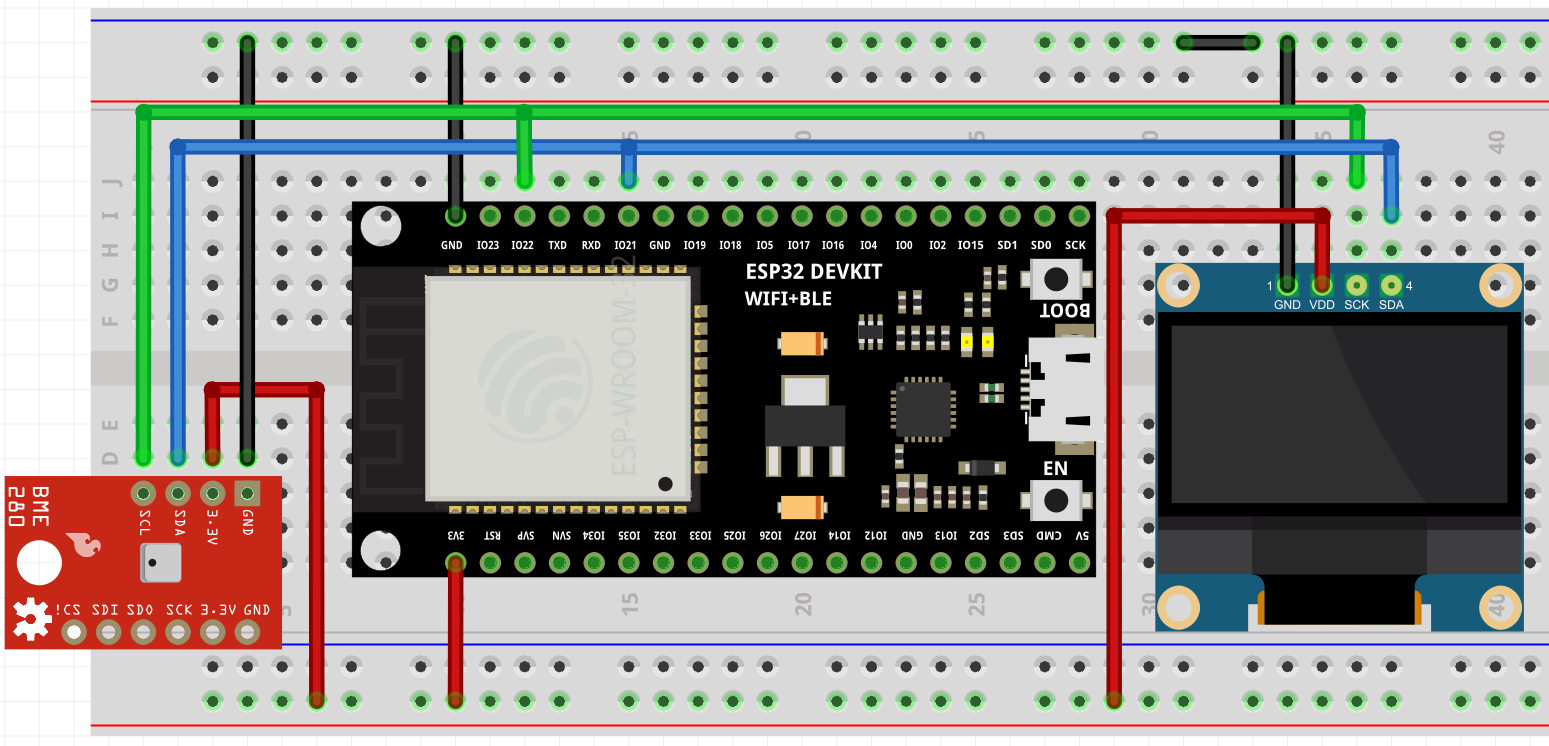
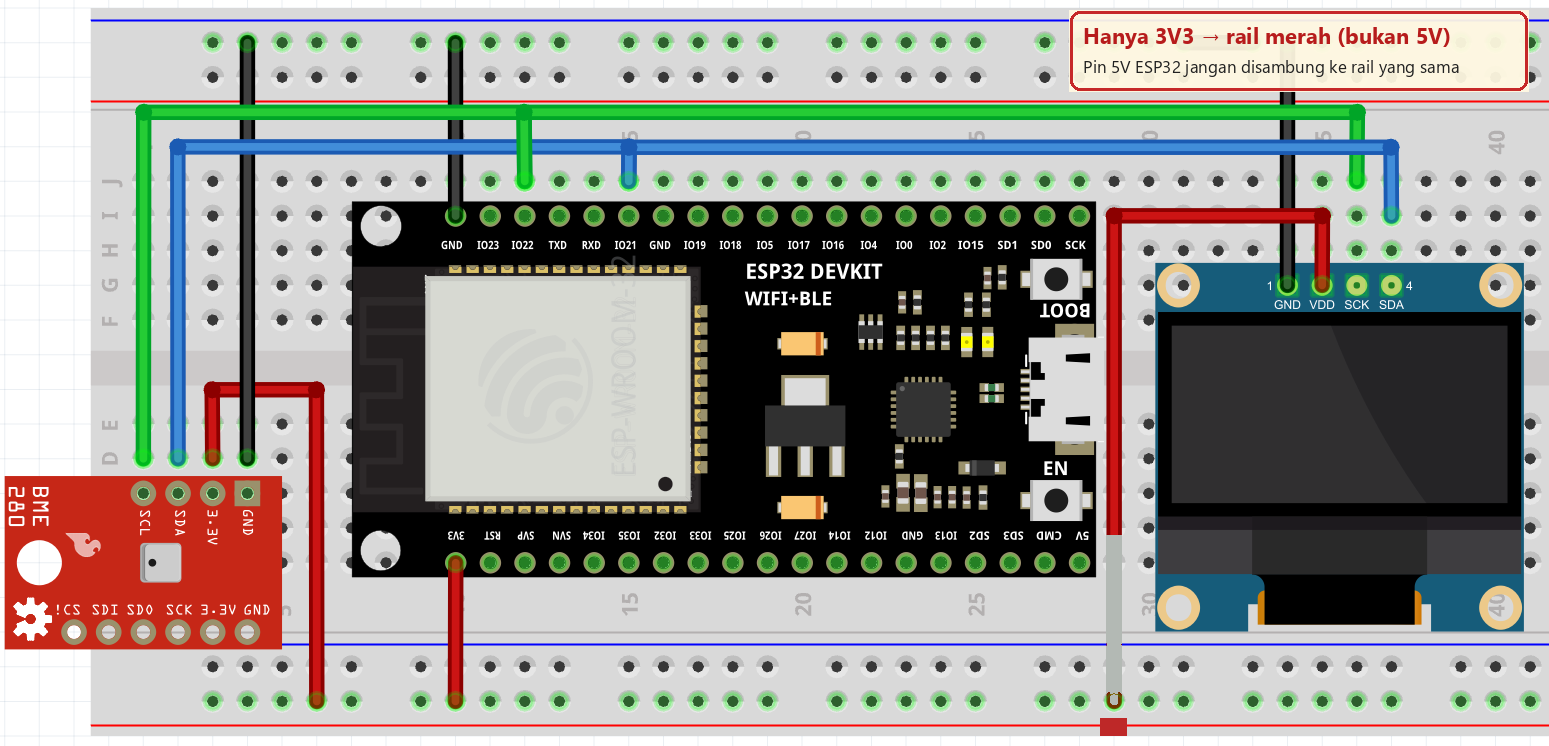
fix(fsiot): #98 QA awam — remove 5V rail short, clarify OLED labels
Correct the breadboard power rail so only 3V3 feeds modules, add SCK/VDD tips plus silkscreen guidance, and refresh FS-28 diagrams for beginner safety.

Changed region(s): [[0.6817, 0.0, 0.9916, 0.1233], [0.7127, 0.7091, 0.7437, 0.9866]]

diff --git a/database/seeders/Article98Seeder.php b/database/seeders/Article98Seeder.php
@@ -164,8 +164,9 @@ HTML;
 <figure style="margin:1.5rem 0;max-width:100%;background:#F5F5F0;border:2.5px solid #1a1a1a;border-radius:8px;padding:0.75rem 0.75rem 0.35rem">
   <img src="/images/fsiot/fs28-i2c-breadboard.png" width="1549" height="746" alt="Gambar utama — rangkaian I2C BME280 + OLED di breadboard GPIO 21/22" loading="eager" style="width:100%;height:auto;max-height:640px;object-fit:contain;border-radius:6px;background:#fff">
   <figcaption style="font-size:0.85rem;margin-top:0.5rem;color:#1a1a1a;">
-    <strong>Gambar utama — rangkaian I2C di breadboard.</strong> Legenda warna: <strong>biru</strong> = <strong>IO21 / GPIO 21</strong> → <strong>SDA</strong> (BME280 + OLED) · <strong>hijau</strong> = <strong>IO22 / GPIO 22</strong> → <strong>SCL</strong> (di OLED sering tertulis <strong>SCK</strong> — itu jam I2C yang sama) · <strong>merah</strong> = <strong>3V3</strong> → VCC · <strong>hitam</strong> = <strong>GND</strong> bersama. Kedua modul berbagi bus yang sama.
-    <br>Tip BME280: pakai baris pin <strong>SCL / SDA / 3.3V / GND</strong>; baris bawah (<code>!CS</code>, <code>SDI</code>, …) untuk SPI — biarkan kosong. Sumber gambar: diagram rangkaian Koding Indonesia (FS-28).
+    <strong>Gambar utama — rangkaian I2C di breadboard.</strong> Legenda warna: <strong>biru</strong> = <strong>IO21 / GPIO 21</strong> → <strong>SDA</strong> (BME280 + OLED) · <strong>hijau</strong> = <strong>IO22 / GPIO 22</strong> → <strong>SCL</strong> (di OLED sering tertulis <strong>SCK</strong> — itu jam I2C yang sama) · <strong>merah</strong> = <strong>3V3 saja</strong> → VCC/VDD · <strong>hitam</strong> = <strong>GND</strong> bersama. Kedua modul berbagi bus yang sama.
+    <br><strong>Penting:</strong> rail merah hanya dari pin <strong>3V3</strong> — <strong>jangan</strong> sambungkan pin <strong>5V</strong> ESP32 ke rail yang sama (bisa merusak modul 3,3 V). Di OLED, <strong>VDD = VCC</strong> (daya). Tip BME280: pakai baris <strong>SCL / SDA / 3.3V / GND</strong>; baris bawah (<code>!CS</code>, <code>SDI</code>, …) untuk SPI — biarkan kosong. Susunan pin di foto Commons bisa beda dari modul murah — ikuti <strong>label tulisan</strong>, bukan posisi foto.
+    <br>Sumber gambar: diagram rangkaian Koding Indonesia (FS-28), sudah dikoreksi agar hanya 3V3 yang mengisi rail daya.
   </figcaption>
 </figure>
 HTML;
@@ -177,8 +178,9 @@ HTML;
 <figure style="margin:1.5rem 0;max-width:100%;background:#F5F5F0;border:2.5px solid #1a1a1a;border-radius:8px;padding:0.75rem 0.75rem 0.35rem">
   <img src="/images/fsiot/fs28-i2c-breadboard.png" width="1549" height="746" alt="Main figure — I2C BME280 + OLED breadboard wiring GPIO 21/22" loading="eager" style="width:100%;height:auto;max-height:640px;object-fit:contain;border-radius:6px;background:#fff">
   <figcaption style="font-size:0.85rem;margin-top:0.5rem;color:#1a1a1a;">
-    <strong>Main figure — I2C on a breadboard.</strong> Color legend: <strong>blue</strong> = <strong>IO21 / GPIO 21</strong> → <strong>SDA</strong> (BME280 + OLED) · <strong>green</strong> = <strong>IO22 / GPIO 22</strong> → <strong>SCL</strong> (on many OLEDs labeled <strong>SCK</strong> — same I2C clock) · <strong>red</strong> = <strong>3V3</strong> → VCC · <strong>black</strong> = shared <strong>GND</strong>. Both modules share one bus.
-    <br>BME280 tip: use the <strong>SCL / SDA / 3.3V / GND</strong> row; the lower row (<code>!CS</code>, <code>SDI</code>, …) is for SPI — leave it empty. Image source: wiring diagram by Koding Indonesia (FS-28).
+    <strong>Main figure — I2C on a breadboard.</strong> Color legend: <strong>blue</strong> = <strong>IO21 / GPIO 21</strong> → <strong>SDA</strong> (BME280 + OLED) · <strong>green</strong> = <strong>IO22 / GPIO 22</strong> → <strong>SCL</strong> (on many OLEDs labeled <strong>SCK</strong> — same I2C clock) · <strong>red</strong> = <strong>3V3 only</strong> → VCC/VDD · <strong>black</strong> = shared <strong>GND</strong>. Both modules share one bus.
+    <br><strong>Important:</strong> the red rail must come from the <strong>3V3</strong> pin only — <strong>do not</strong> also wire the ESP32 <strong>5V</strong> pin to the same rail (it can damage 3.3 V modules). On OLEDs, <strong>VDD = VCC</strong> (power). BME280 tip: use the <strong>SCL / SDA / 3.3V / GND</strong> row; the lower row (<code>!CS</code>, <code>SDI</code>, …) is for SPI — leave it empty. Commons photo pin order may differ from cheap modules — follow the <strong>printed labels</strong>, not the photo layout.
+    <br>Image source: wiring diagram by Koding Indonesia (FS-28), corrected so only 3V3 feeds the power rail.
   </figcaption>
 </figure>
 HTML;
@@ -216,8 +218,8 @@ HTML;
 <figure style="margin:1.5rem 0;max-width:100%;background:#F5F5F0;border:2.5px solid #1a1a1a;border-radius:8px;padding:0.75rem 0.75rem 0.35rem">
   <img src="/images/fsiot/fs28-modul-kit.png" width="1400" height="620" alt="Kit modul BME280 dan OLED untuk I2C" loading="eager" style="width:100%;height:auto;max-height:560px;object-fit:contain;border-radius:6px;background:#F5F5F0">
   <figcaption style="font-size:0.85rem;margin-top:0.5rem;color:#1a1a1a;">
-    <strong>Kenali modul dulu.</strong> BME280 = sensor I2C · OLED 0,96" = layar I2C · keduanya berbagi SDA/SCL. OLED di gambar = <strong>ilustrasi bentuk tipikal</strong> (bukan foto perangkat lain).
-    <br>Sumber foto BME280: <a href="https://commons.wikimedia.org/wiki/File:SparkFun_Atmospheric_Sensor_Breakout_-_BME280_13676.jpg" rel="noopener noreferrer" target="_blank">SparkFun BME280</a> (CC BY 2.0). Ilustrasi OLED + kolase: Koding Indonesia (FS-28).
+    <strong>Kenali modul dulu.</strong> BME280 = sensor I2C · OLED 0,96" = layar I2C · keduanya berbagi SDA/SCL. Label OLED tipikal: <strong>GND · VDD · SCK · SDA</strong> (<strong>SCK = SCL</strong>, <strong>VDD = VCC</strong>). OLED di gambar = <strong>ilustrasi bentuk tipikal</strong> (bukan foto perangkat lain).
+    <br>Sumber foto BME280: <a href="https://commons.wikimedia.org/wiki/File:SparkFun_Atmospheric_Sensor_Breakout_-_BME280_13676.jpg" rel="noopener noreferrer" target="_blank">SparkFun BME280</a> (CC BY 2.0) — urutan pin di foto bisa beda dari modul murah; ikuti tulisan di PCB kamu. Ilustrasi OLED + kolase: Koding Indonesia (FS-28).
   </figcaption>
 </figure>
 HTML;
@@ -229,8 +231,8 @@ HTML;
 <figure style="margin:1.5rem 0;max-width:100%;background:#F5F5F0;border:2.5px solid #1a1a1a;border-radius:8px;padding:0.75rem 0.75rem 0.35rem">
   <img src="/images/fsiot/fs28-modul-kit.png" width="1400" height="620" alt="BME280 and OLED module kit for I2C" loading="eager" style="width:100%;height:auto;max-height:560px;object-fit:contain;border-radius:6px;background:#F5F5F0">
   <figcaption style="font-size:0.85rem;margin-top:0.5rem;color:#1a1a1a;">
-    <strong>Recognize the modules first.</strong> BME280 = I2C sensor · 0.96" OLED = I2C display · both share SDA/SCL. The OLED panel is a <strong>typical-shape illustration</strong> (not a photo of another device).
-    <br>BME280 photo: <a href="https://commons.wikimedia.org/wiki/File:SparkFun_Atmospheric_Sensor_Breakout_-_BME280_13676.jpg" rel="noopener noreferrer" target="_blank">SparkFun BME280</a> (CC BY 2.0). OLED illustration + collage: Koding Indonesia (FS-28).
+    <strong>Recognize the modules first.</strong> BME280 = I2C sensor · 0.96" OLED = I2C display · both share SDA/SCL. Typical OLED labels: <strong>GND · VDD · SCK · SDA</strong> (<strong>SCK = SCL</strong>, <strong>VDD = VCC</strong>). The OLED panel is a <strong>typical-shape illustration</strong> (not a photo of another device).
+    <br>BME280 photo: <a href="https://commons.wikimedia.org/wiki/File:SparkFun_Atmospheric_Sensor_Breakout_-_BME280_13676.jpg" rel="noopener noreferrer" target="_blank">SparkFun BME280</a> (CC BY 2.0) — pin order in the photo may differ from cheap modules; follow the silkscreen on your PCB. OLED illustration + collage: Koding Indonesia (FS-28).
   </figcaption>
 </figure>
 HTML;
@@ -434,12 +436,12 @@ CODE;
 {$schema}
 <p><strong>Blok kabel (kedua modul sama pola):</strong></p>
 <ul>
-<li><strong>VCC</strong> → <strong>3V3</strong> ESP32 (modul I2C tipikal 3,3 V — cek silkscreen; jangan asal 5V jika tertulis 3V3-only)</li>
+<li><strong>VCC</strong> → <strong>3V3</strong> ESP32 (modul I2C tipikal 3,3 V — cek silkscreen; di OLED sering tertulis <strong>VDD</strong> = daya yang sama). <strong>Jangan</strong> isi rail merah dari pin <strong>5V</strong> sekaligus 3V3.</li>
 <li><strong>GND</strong> → <strong>GND</strong> ESP32</li>
 <li><strong>SDA</strong> → <strong>GPIO 21</strong> (di foto: kabel <strong>biru</strong>)</li>
 <li><strong>SCL</strong> → <strong>GPIO 22</strong> (di foto: kabel <strong>hijau</strong>; di OLED sering tertulis <strong>SCK</strong>)</li>
 </ul>
-<p><strong>Intinya:</strong> SDA ke SDA, SCL ke SCL — dua modul “nyambung paralel” di bus yang sama. Banyak modul sudah punya pull-up internal; kalau tidak ketemu di Serial, baru curiga pull-up / alamat.</p>
+<p><strong>Intinya:</strong> SDA ke SDA, SCL/SCK ke SCL — dua modul “nyambung paralel” di bus yang sama. Banyak modul sudah punya pull-up internal; kalau tidak ketemu di Serial, baru curiga pull-up / alamat.</p>
 
 <h2>Praktik — sketch FS28_bme280_oled</h2>
 <p>Tujuan: pasang 3 library Adafruit, baca BME280, tampilkan suhu &amp; tekanan di OLED, cetak yang sama ke Serial.</p>
@@ -474,10 +476,11 @@ CODE;
 <h2>Kesalahan yang sering terjadi</h2>
 <ul>
 <li><strong>SDA/SCL tertukar.</strong> SDA hanya ke GPIO 21 · SCL ke GPIO 22.</li>
-<li><strong>Bingung label OLED “SCK”.</strong> Di modul I2C 0,96", <strong>SCK = SCL</strong> (jam) — sambungkan ke GPIO 22.</li>
+<li><strong>Bingung label OLED “SCK” / “VDD”.</strong> Di modul I2C 0,96", <strong>SCK = SCL</strong> (jam) → GPIO 22 · <strong>VDD = VCC</strong> (daya) → 3V3.</li>
+<li><strong>3V3 dan 5V di rail yang sama.</strong> Rail merah hanya dari <strong>3V3</strong>. Menyambung pin 5V ke rail yang sama bisa merusak BME280/OLED 3,3 V.</li>
 <li><strong>Alamat BME salah (0x76 vs 0x77).</strong> Ganti konstanta lalu Upload ulang.</li>
 <li><strong>Library belum lengkap.</strong> Pasang GFX dulu, lalu SSD1306, lalu BME280 (+ Unified Sensor jika diminta).</li>
-<li><strong>VCC ke 5V pada modul 3V3-only.</strong> Cek silkscreen; banyak breakout I2C aman di 3V3.</li>
+<li><strong>Mengikuti posisi pin di foto Commons, bukan label PCB kamu.</strong> Urutan pin bisa beda antar modul — baca tulisan silkscreen.</li>
 <li><strong>Menguji di Laragon / terminal web.</strong> Sketch hanya jalan di board lewat IDE Upload.</li>
 <li><strong>Mengira Serial Monitor = I2C.</strong> Serial Monitor = UART/debug; I2C = bus di pin 21/22.</li>
 </ul>
@@ -545,12 +548,12 @@ HTML;
 {$schema}
 <p><strong>Cable block (same pattern for both modules):</strong></p>
 <ul>
-<li><strong>VCC</strong> → ESP32 <strong>3V3</strong> (typical I2C modules are 3.3 V — check silkscreen; don’t force 5V on 3V3-only boards)</li>
+<li><strong>VCC</strong> → ESP32 <strong>3V3</strong> (typical I2C modules are 3.3 V — check silkscreen; on OLEDs often labeled <strong>VDD</strong> = the same power). <strong>Do not</strong> feed the red rail from both <strong>5V</strong> and 3V3.</li>
 <li><strong>GND</strong> → ESP32 <strong>GND</strong></li>
 <li><strong>SDA</strong> → <strong>GPIO 21</strong> (in the photo: the <strong>blue</strong> wire)</li>
 <li><strong>SCL</strong> → <strong>GPIO 22</strong> (in the photo: the <strong>green</strong> wire; on OLEDs often labeled <strong>SCK</strong>)</li>
 </ul>
-<p><strong>In short:</strong> SDA to SDA, SCL to SCL — both modules sit in parallel on the same bus. Many modules already include pull-ups; if Serial never finds them, then suspect pull-ups / addresses.</p>
+<p><strong>In short:</strong> SDA to SDA, SCL/SCK to SCL — both modules sit in parallel on the same bus. Many modules already include pull-ups; if Serial never finds them, then suspect pull-ups / addresses.</p>
 
 <h2>Practice — sketch FS28_bme280_oled</h2>
 <p>Goal: install 3 Adafruit libraries, read the BME280, show temperature &amp; pressure on the OLED, print the same values to Serial.</p>
@@ -585,10 +588,11 @@ HTML;
 <h2>Common mistakes</h2>
 <ul>
 <li><strong>SDA/SCL swapped.</strong> SDA only to GPIO 21 · SCL to GPIO 22.</li>
-<li><strong>Confused by OLED “SCK”.</strong> On a 0.96" I2C module, <strong>SCK = SCL</strong> (clock) — wire it to GPIO 22.</li>
+<li><strong>Confused by OLED “SCK” / “VDD”.</strong> On a 0.96" I2C module, <strong>SCK = SCL</strong> (clock) → GPIO 22 · <strong>VDD = VCC</strong> (power) → 3V3.</li>
+<li><strong>3V3 and 5V on the same rail.</strong> The red rail must come from <strong>3V3</strong> only. Wiring the 5V pin onto the same rail can damage 3.3 V BME280/OLED modules.</li>
 <li><strong>Wrong BME address (0x76 vs 0x77).</strong> Change the constant and Upload again.</li>
 <li><strong>Incomplete libraries.</strong> Install GFX first, then SSD1306, then BME280 (+ Unified Sensor if asked).</li>
-<li><strong>5V into a 3V3-only module.</strong> Check silkscreen; many I2C breakouts expect 3V3.</li>
+<li><strong>Copying pin order from a Commons photo instead of your PCB labels.</strong> Pin order varies — read the silkscreen on your board.</li>
 <li><strong>Testing in Laragon / a web terminal.</strong> The sketch only runs on the board via IDE Upload.</li>
 <li><strong>Equating Serial Monitor with I2C.</strong> Serial Monitor = UART/debug; I2C = the bus on pins 21/22.</li>
 </ul>

diff --git a/scripts/gen-fs28-assets.py b/scripts/gen-fs28-assets.py
@@ -43,14 +43,15 @@ def draw_oled(size=(360, 220)) -> Image.Image:
     box(d, (48, 36, w - 48, 130), "#111111", "#000000", 2, 6)
     center(d, w // 2, 78, "24.6 C", FH, "#90CAF9")
     center(d, w // 2, 112, "1013 hPa", FS, "#BBDEFB")
-    pins = [("GND", "#333"), ("VCC", "#C62828"), ("SCL", "#2E7D32"), ("SDA", "#1565C0")]
+    # Match common I2C OLED silkscreen: GND · VDD/VCC · SCK(=SCL) · SDA
+    pins = [("GND", "#333"), ("VDD", "#C62828"), ("SCK", "#2E7D32"), ("SDA", "#1565C0")]
     pw = 52
     x0 = (w - len(pins) * pw) // 2
     for i, (lab, col) in enumerate(pins):
         x = x0 + i * pw
-        box(d, (x + 4, h - 70, x + pw - 4, h - 36), "#FFFDE7", col, 2, 6)
-        center(d, x + pw // 2, h - 53, lab, FS, col)
-    center(d, w // 2, h - 14, "OLED 0,96\" I2C · alamat 0x3C", FS, "#0D47A1")
+        box(d, (x + 4, h - 78, x + pw - 4, h - 44), "#FFFDE7", col, 2, 6)
+        center(d, x + pw // 2, h - 61, lab, FS, col)
+    center(d, w // 2, h - 22, "SCK = SCL · VDD = VCC · alamat 0x3C", FS, "#0D47A1")
     return canvas
 
 
@@ -169,7 +170,7 @@ center(d, 990, 465, "alamat 0x3C", FH, "#1a1a1a")
 center(d, 990, 505, "SSD1306 I2C", FS, "#333")
 
 box(d, (40, 555, W - 40, 690), "#E3F2FD", "#1565C0", 3)
-center(d, W // 2, 595, "Jangan campur pin: SDA hanya ke SDA · SCL hanya ke SCL · VCC biasanya 3V3", F, "#0D47A1")
+center(d, W // 2, 590, "SDA→SDA · SCL/SCK→SCL · VCC/VDD→3V3 saja (jangan campur pin 5V ke rail yang sama)", F, "#0D47A1")
 center(d, W // 2, 645, "Sumber: diagram Koding Indonesia (FS-28) · pin tabel FS-17", FS, "#0D47A1")
 img.save(OUT / "fs28-i2c-wiring.png", optimize=True)
 print("wiring", (OUT / "fs28-i2c-wiring.png").stat().st_size)
@@ -198,7 +199,7 @@ center(d, 700, 480, "Bus: I2C · 0x3C", FH, "#2E7D32")
 
 box(d, (940, 145, 1360, 505), "#FFF8E1", "#F9A825", 4)
 center(d, 1150, 230, "Pin bersama", FT, "#F57F17")
-for j, ln in enumerate(["SDA → GPIO 21", "SCL → GPIO 22", "VCC → 3V3", "GND → GND"]):
+for j, ln in enumerate(["SDA → GPIO 21", "SCL/SCK → GPIO 22", "VDD/VCC → 3V3", "GND → GND"]):
     center(d, 1150, 310 + j * 42, ln, FH, "#1a1a1a")
 
 box(d, (40, 530, MW - 40, 590), "#FFFFFF", "#1a1a1a", 3)

diff --git a/scripts/render-article98-preview.php b/scripts/render-article98-preview.php
@@ -1,0 +1,30 @@
+<?php
+
+require __DIR__.'/../vendor/autoload.php';
+
+$s = new Database\Seeders\Article98Seeder();
+$ref = new ReflectionClass($s);
+$m = $ref->getMethod('body');
+$m->setAccessible(true);
+$body = $m->invoke($s);
+
+$html = '<!DOCTYPE html><html lang="id"><head><meta charset="utf-8"><title>QA #98 FS-28</title>'
+    .'<base href="https://kodingindonesia.com/">'
+    .'<style>body{font-family:Segoe UI,sans-serif;max-width:860px;margin:24px auto;padding:0 16px;line-height:1.55;color:#1a1a1a;background:#fafafa}'
+    .'img{max-width:100%;height:auto}pre{background:#111;color:#eee;padding:12px;overflow:auto;border-radius:8px}'
+    .'code{font-family:Consolas,monospace}h1,h2{line-height:1.25}figure{background:#F5F5F0}</style></head><body>'
+    .'<p style="background:#FFF3CD;border:2.5px solid #1a1a1a;padding:10px 12px"><strong>QA lokal #98 / FS-28</strong> — body dari Article98Seeder (gambar dari prod + lokal breadboard fix).</p>'
+    .'<h1>Praktik I2C: BME280 + OLED (data terbaca di layar)</h1>'
+    .$body
+    .'</body></html>';
+
+$out = __DIR__.'/../public/_qa98.html';
+file_put_contents($out, $html);
+
+echo "wrote {$out} bytes=".strlen($html)."\n";
+echo 'figures='.substr_count($body, '<figure')."\n";
+echo 'tools='.(str_contains($body, 'Cara pakai artikel ini') ? 'yes' : 'no')."\n";
+echo 'test='.(str_contains($body, 'Cara menguji perintah di atas') ? 'yes' : 'no')."\n";
+echo 'breadboard='.(str_contains($body, 'fs28-i2c-breadboard.png') ? 'yes' : 'no')."\n";
+echo '5v_tip='.(str_contains($body, '3V3 dan 5V') ? 'yes' : 'no')."\n";
+echo 'vdd='.(str_contains($body, 'VDD = VCC') ? 'yes' : 'no')."\n";

diff --git a/scripts/audit-article98.php b/scripts/audit-article98.php
@@ -69,7 +69,10 @@ check('Main figure breadboard EN', str_contains($en, 'Main figure') && str_conta
 check('Skema bantu label ID', str_contains($id, 'Skema bantu') && str_contains($id, 'fs28-i2c-wiring.png'));
 check('Helper schematic label EN', str_contains($en, 'Helper schematic') && str_contains($en, 'fs28-i2c-wiring.png'));
 check('OLED SCK equals SCL tip', str_contains($id, 'SCK = SCL') && str_contains($en, 'SCK = SCL'));
+check('OLED VDD equals VCC tip', str_contains($id, 'VDD = VCC') && str_contains($en, 'VDD = VCC'));
+check('3V3 not 5V same rail tip', str_contains($id, '3V3 dan 5V') && str_contains($en, '3V3 and 5V'));
 check('BME280 SPI row tip', str_contains($id, '!CS') && str_contains($en, '!CS'));
+check('follow silkscreen not photo order', (str_contains($id, 'label tulisan') || str_contains($id, 'silkscreen')) && str_contains($en, 'silkscreen'));
 check('Commons BME280 cite', str_contains($id, 'SparkFun_Atmospheric_Sensor_Breakout') && str_contains($en, 'SparkFun_Atmospheric_Sensor_Breakout'));
 check('IDE Commons cite', str_contains($id, 'Ide-2-overview.png'));
 check('OLED ilustrasi tipikal', str_contains($id, 'ilustrasi bentuk tipikal') && str_contains($en, 'typical-shape illustration'));

diff --git a/app/Http/Controllers/DeployController.php b/app/Http/Controllers/DeployController.php
@@ -9081,6 +9081,8 @@ class DeployController extends Controller
             'Gambar utama',
             'Skema bantu',
             'SCK = SCL',
+            'VDD = VCC',
+            '3V3 dan 5V',
             'Buka Arduino IDE dulu',
             'Library Manager',
             '115200',
@@ -9114,6 +9116,8 @@ class DeployController extends Controller
             'fs28-i2c-breadboard.png',
             'fs28-i2c-wiring.png',
             'SCK = SCL',
+            'VDD = VCC',
+            '3V3 and 5V',
             'Open Arduino IDE first',
             'BME280',
             'OLED',
